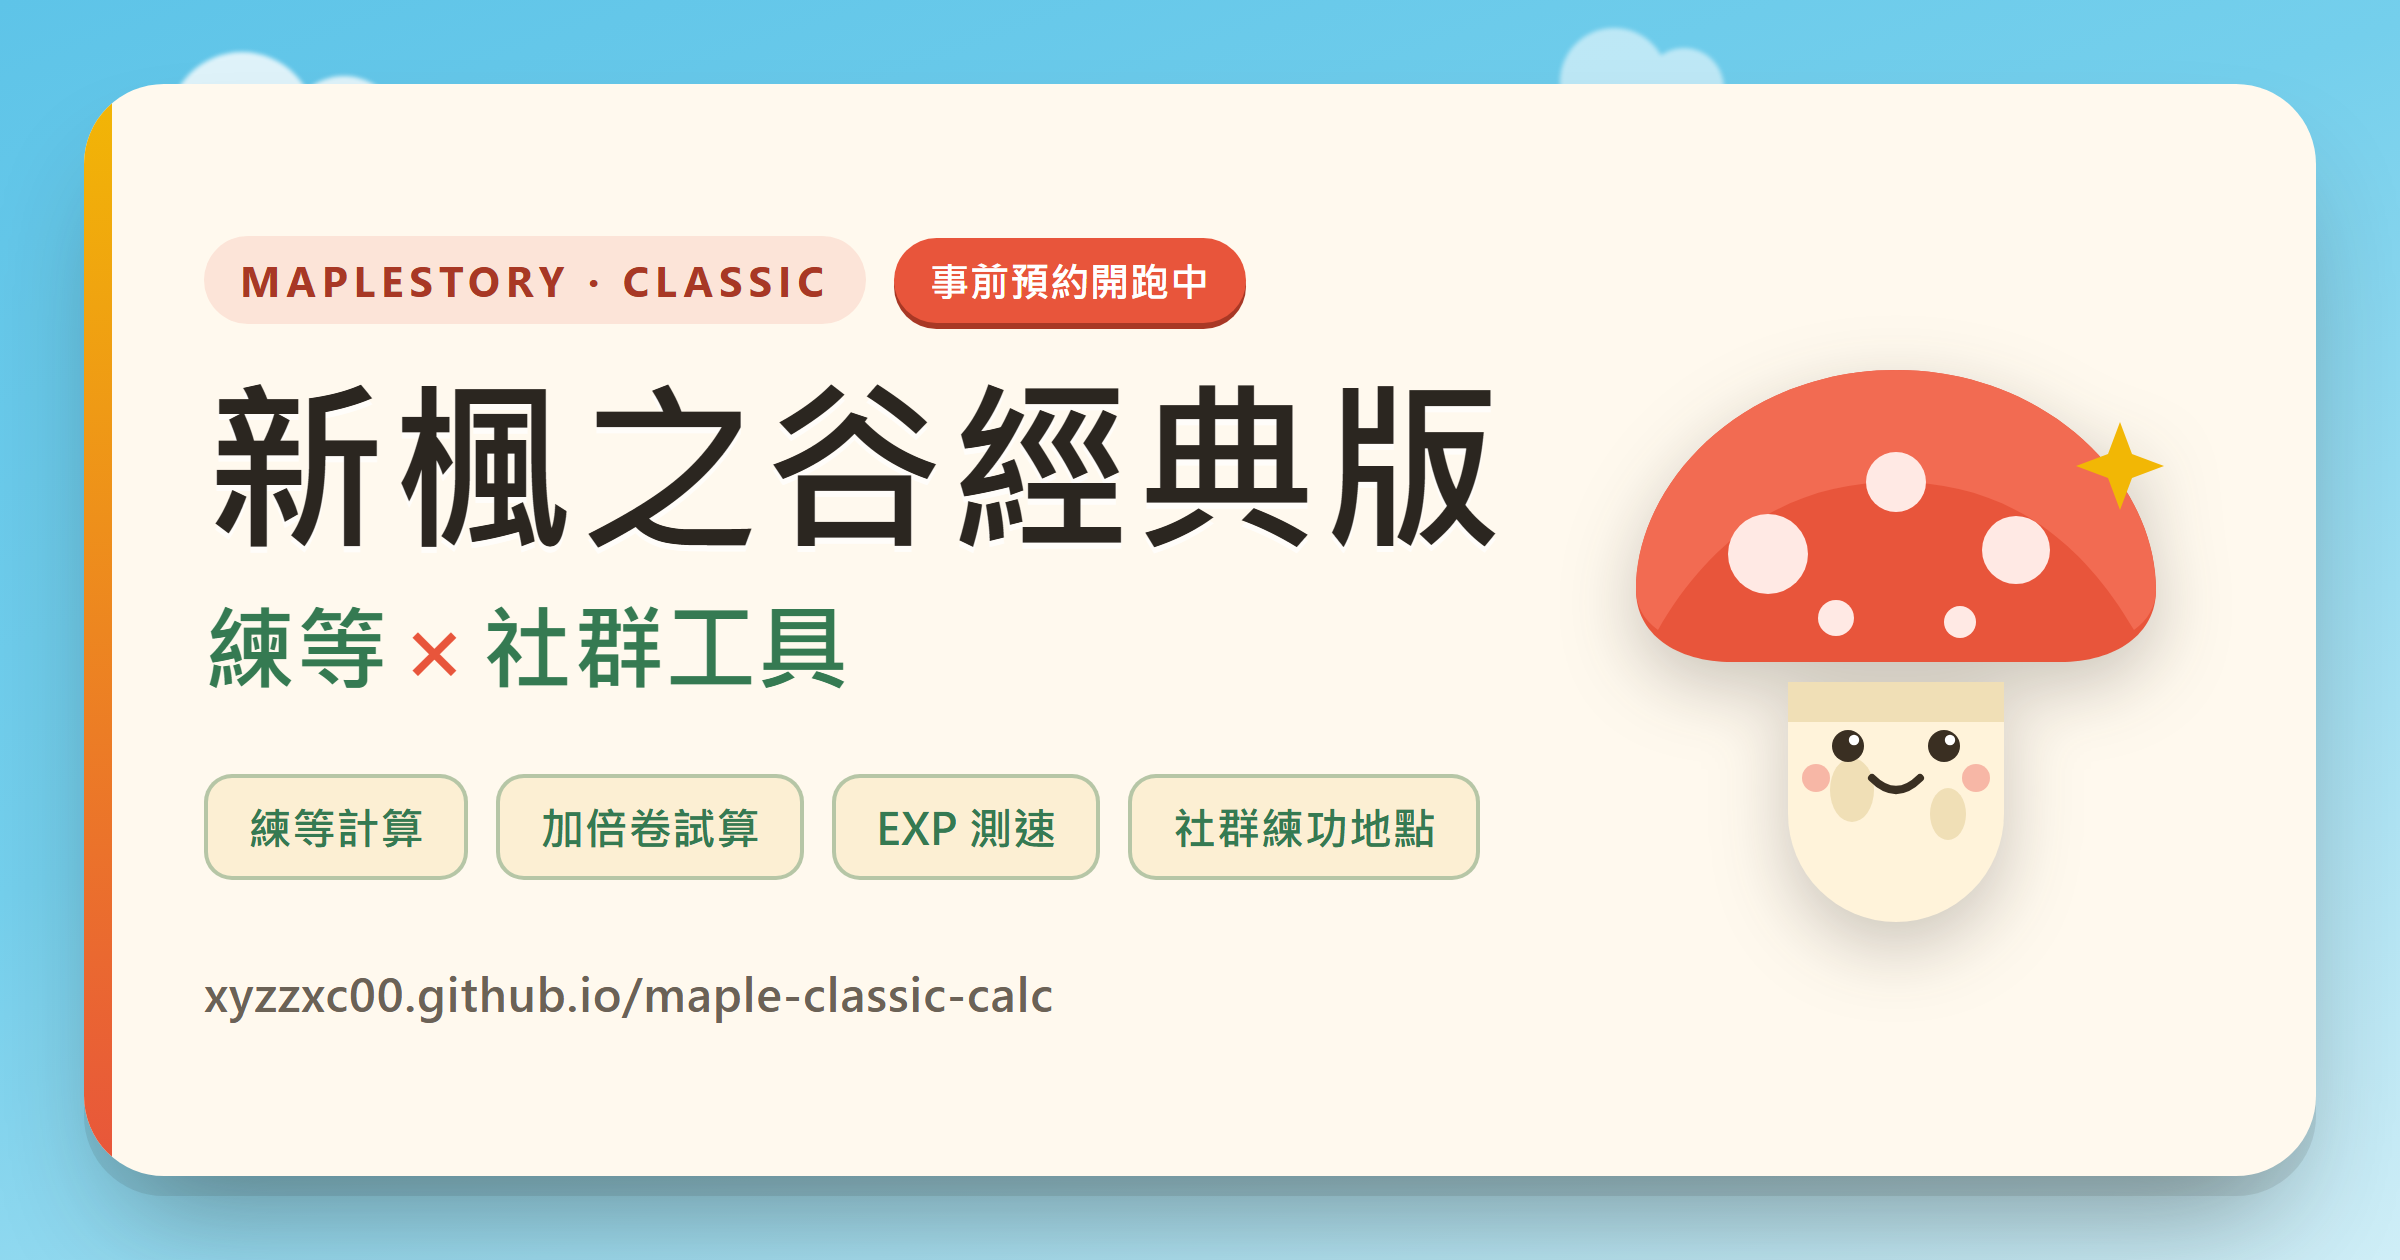
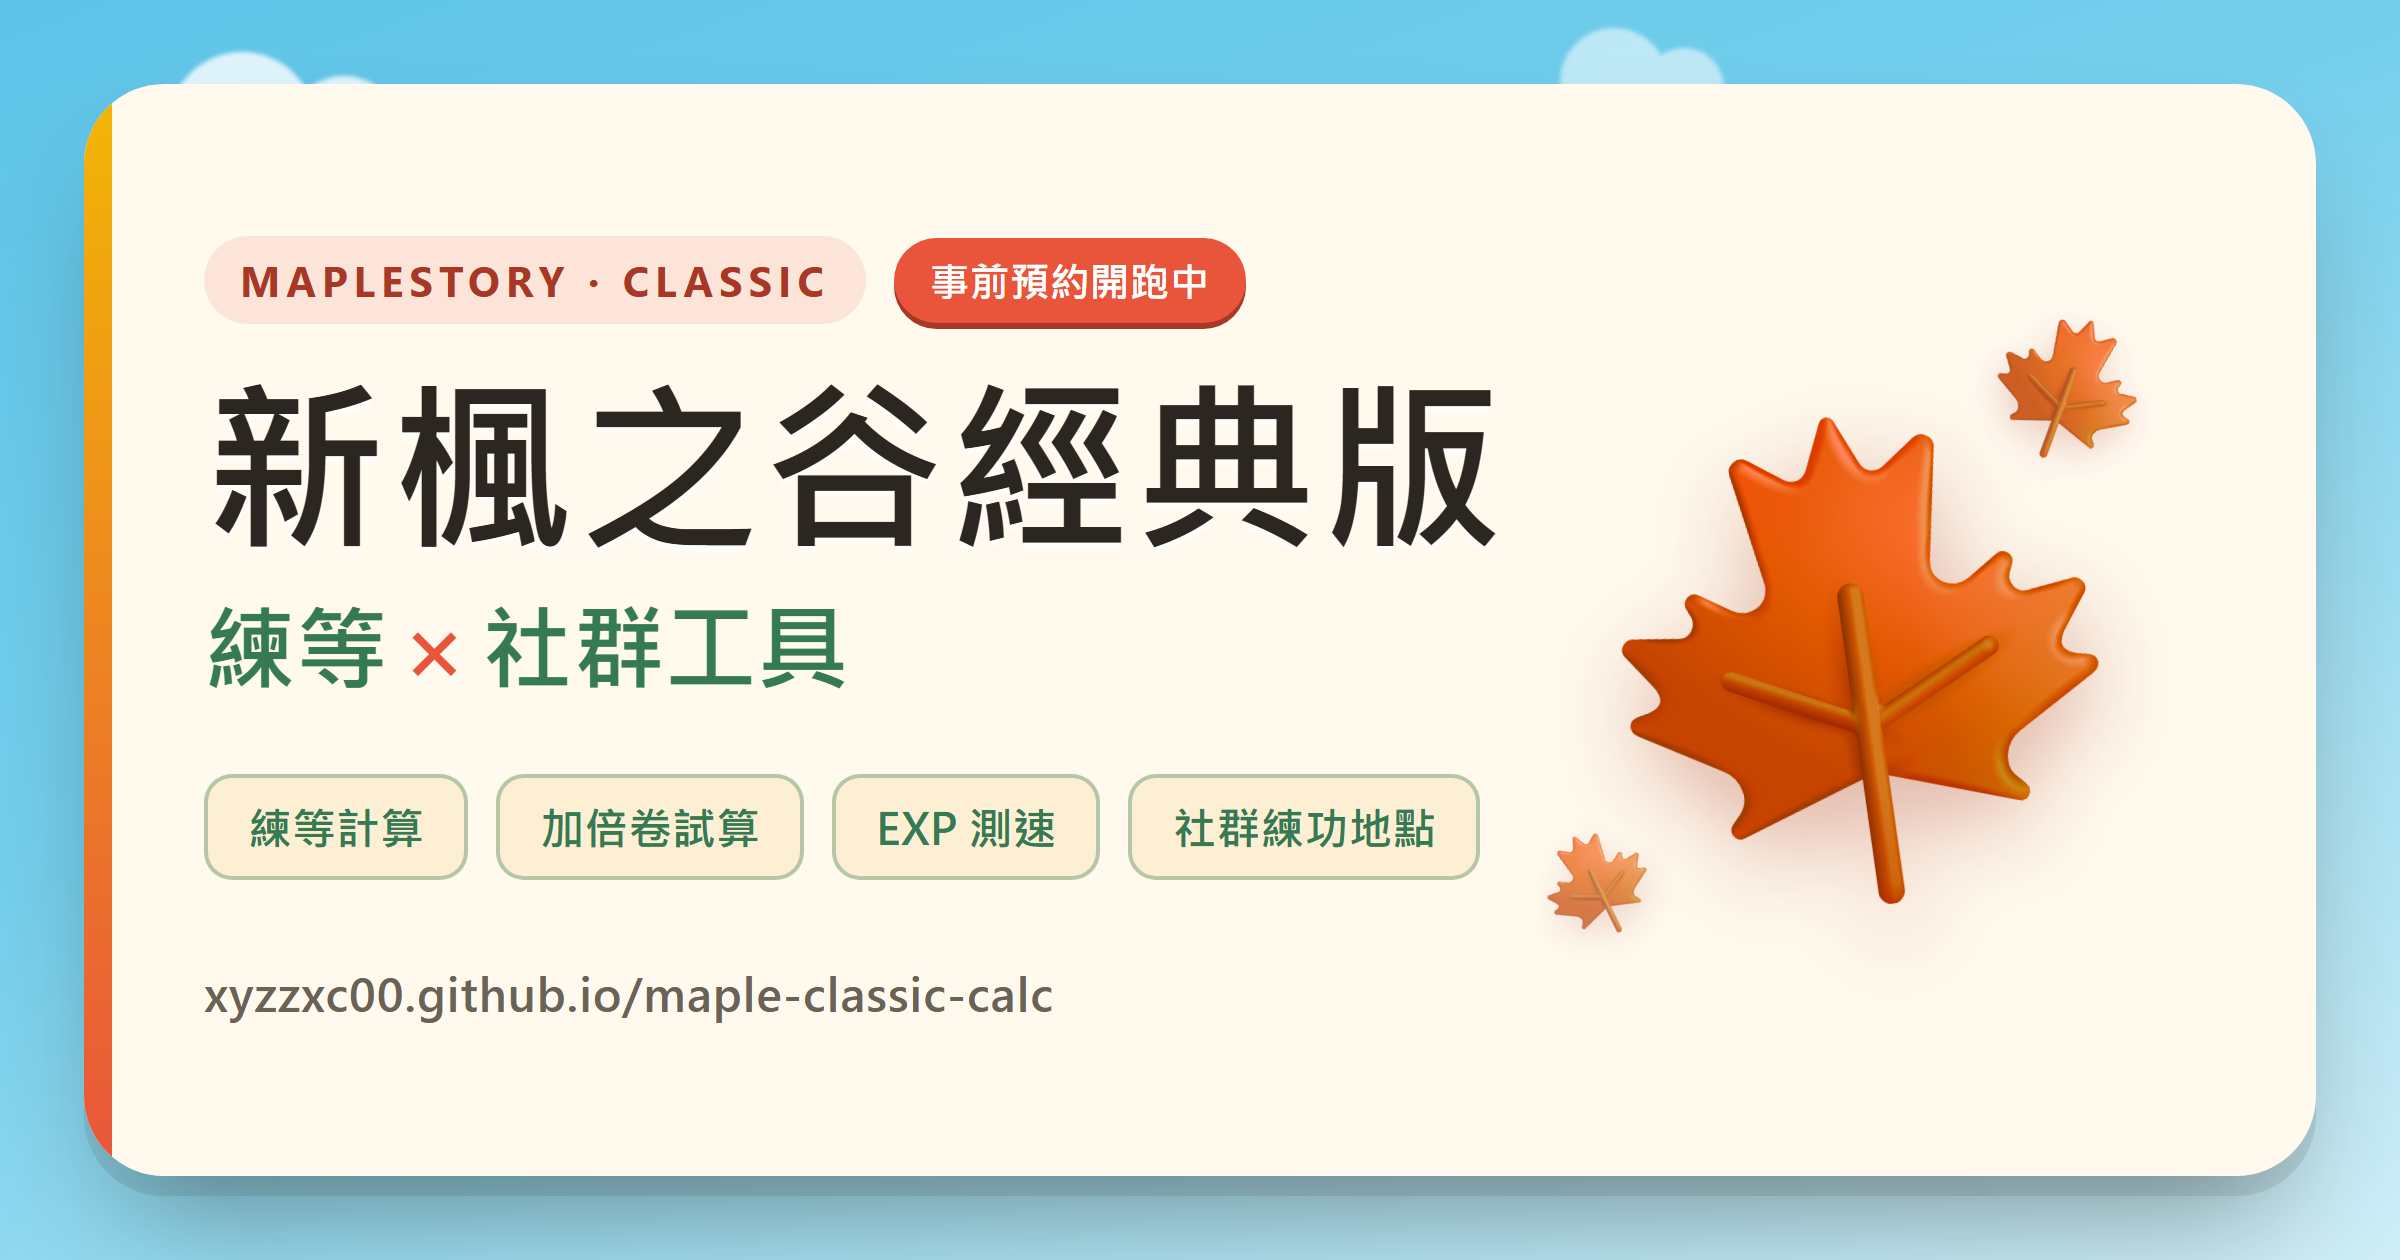
分享卡改用橘紅楓葉（取代香菇），符合品牌主色
- og-image 換成 emoji 楓葉 + 色相旋轉成品牌橘紅的 3D 楓葉
- og:image 版本號升到 v3 強制社群平台重抓

Changed region(s): [[0.6562, 0.2476, 0.9062, 0.7429], [0.625, 0.65, 0.6875, 0.7429]]

diff --git a/index.html b/index.html
@@ -12,7 +12,7 @@
 <link rel="manifest" href="manifest.webmanifest">
 <meta property="og:type" content="website">
 <meta property="og:url" content="https://xyzzxc00.github.io/maple-classic-calc/">
-<meta property="og:image" content="https://xyzzxc00.github.io/maple-classic-calc/og-image.png?v=2">
+<meta property="og:image" content="https://xyzzxc00.github.io/maple-classic-calc/og-image.png?v=3">
 <meta property="og:image:width" content="2400">
 <meta property="og:image:height" content="1260">
 <meta property="og:title" content="新楓之谷經典版 練等 × 社群工具">
@@ -20,7 +20,7 @@
 <meta name="twitter:card" content="summary_large_image">
 <meta name="twitter:title" content="新楓之谷經典版 練等 × 社群工具">
 <meta name="twitter:description" content="事前預約開跑中！輸入目前等級，馬上知道升級還差多少經驗、大概要練多久。附加倍卷試算、計時器、社群練功地點資料庫。">
-<meta name="twitter:image" content="https://xyzzxc00.github.io/maple-classic-calc/og-image.png?v=2">
+<meta name="twitter:image" content="https://xyzzxc00.github.io/maple-classic-calc/og-image.png?v=3">
 <meta name="author" content="xyzzxc00">
 <meta name="keywords" content="新楓之谷經典版,練等計算機,楓之谷經典版,MapleStory Classic,經驗值計算,升級時間,加倍卷,練功地點,職業介紹,台版楓之谷經典服">
 <link rel="canonical" href="https://xyzzxc00.github.io/maple-classic-calc/">